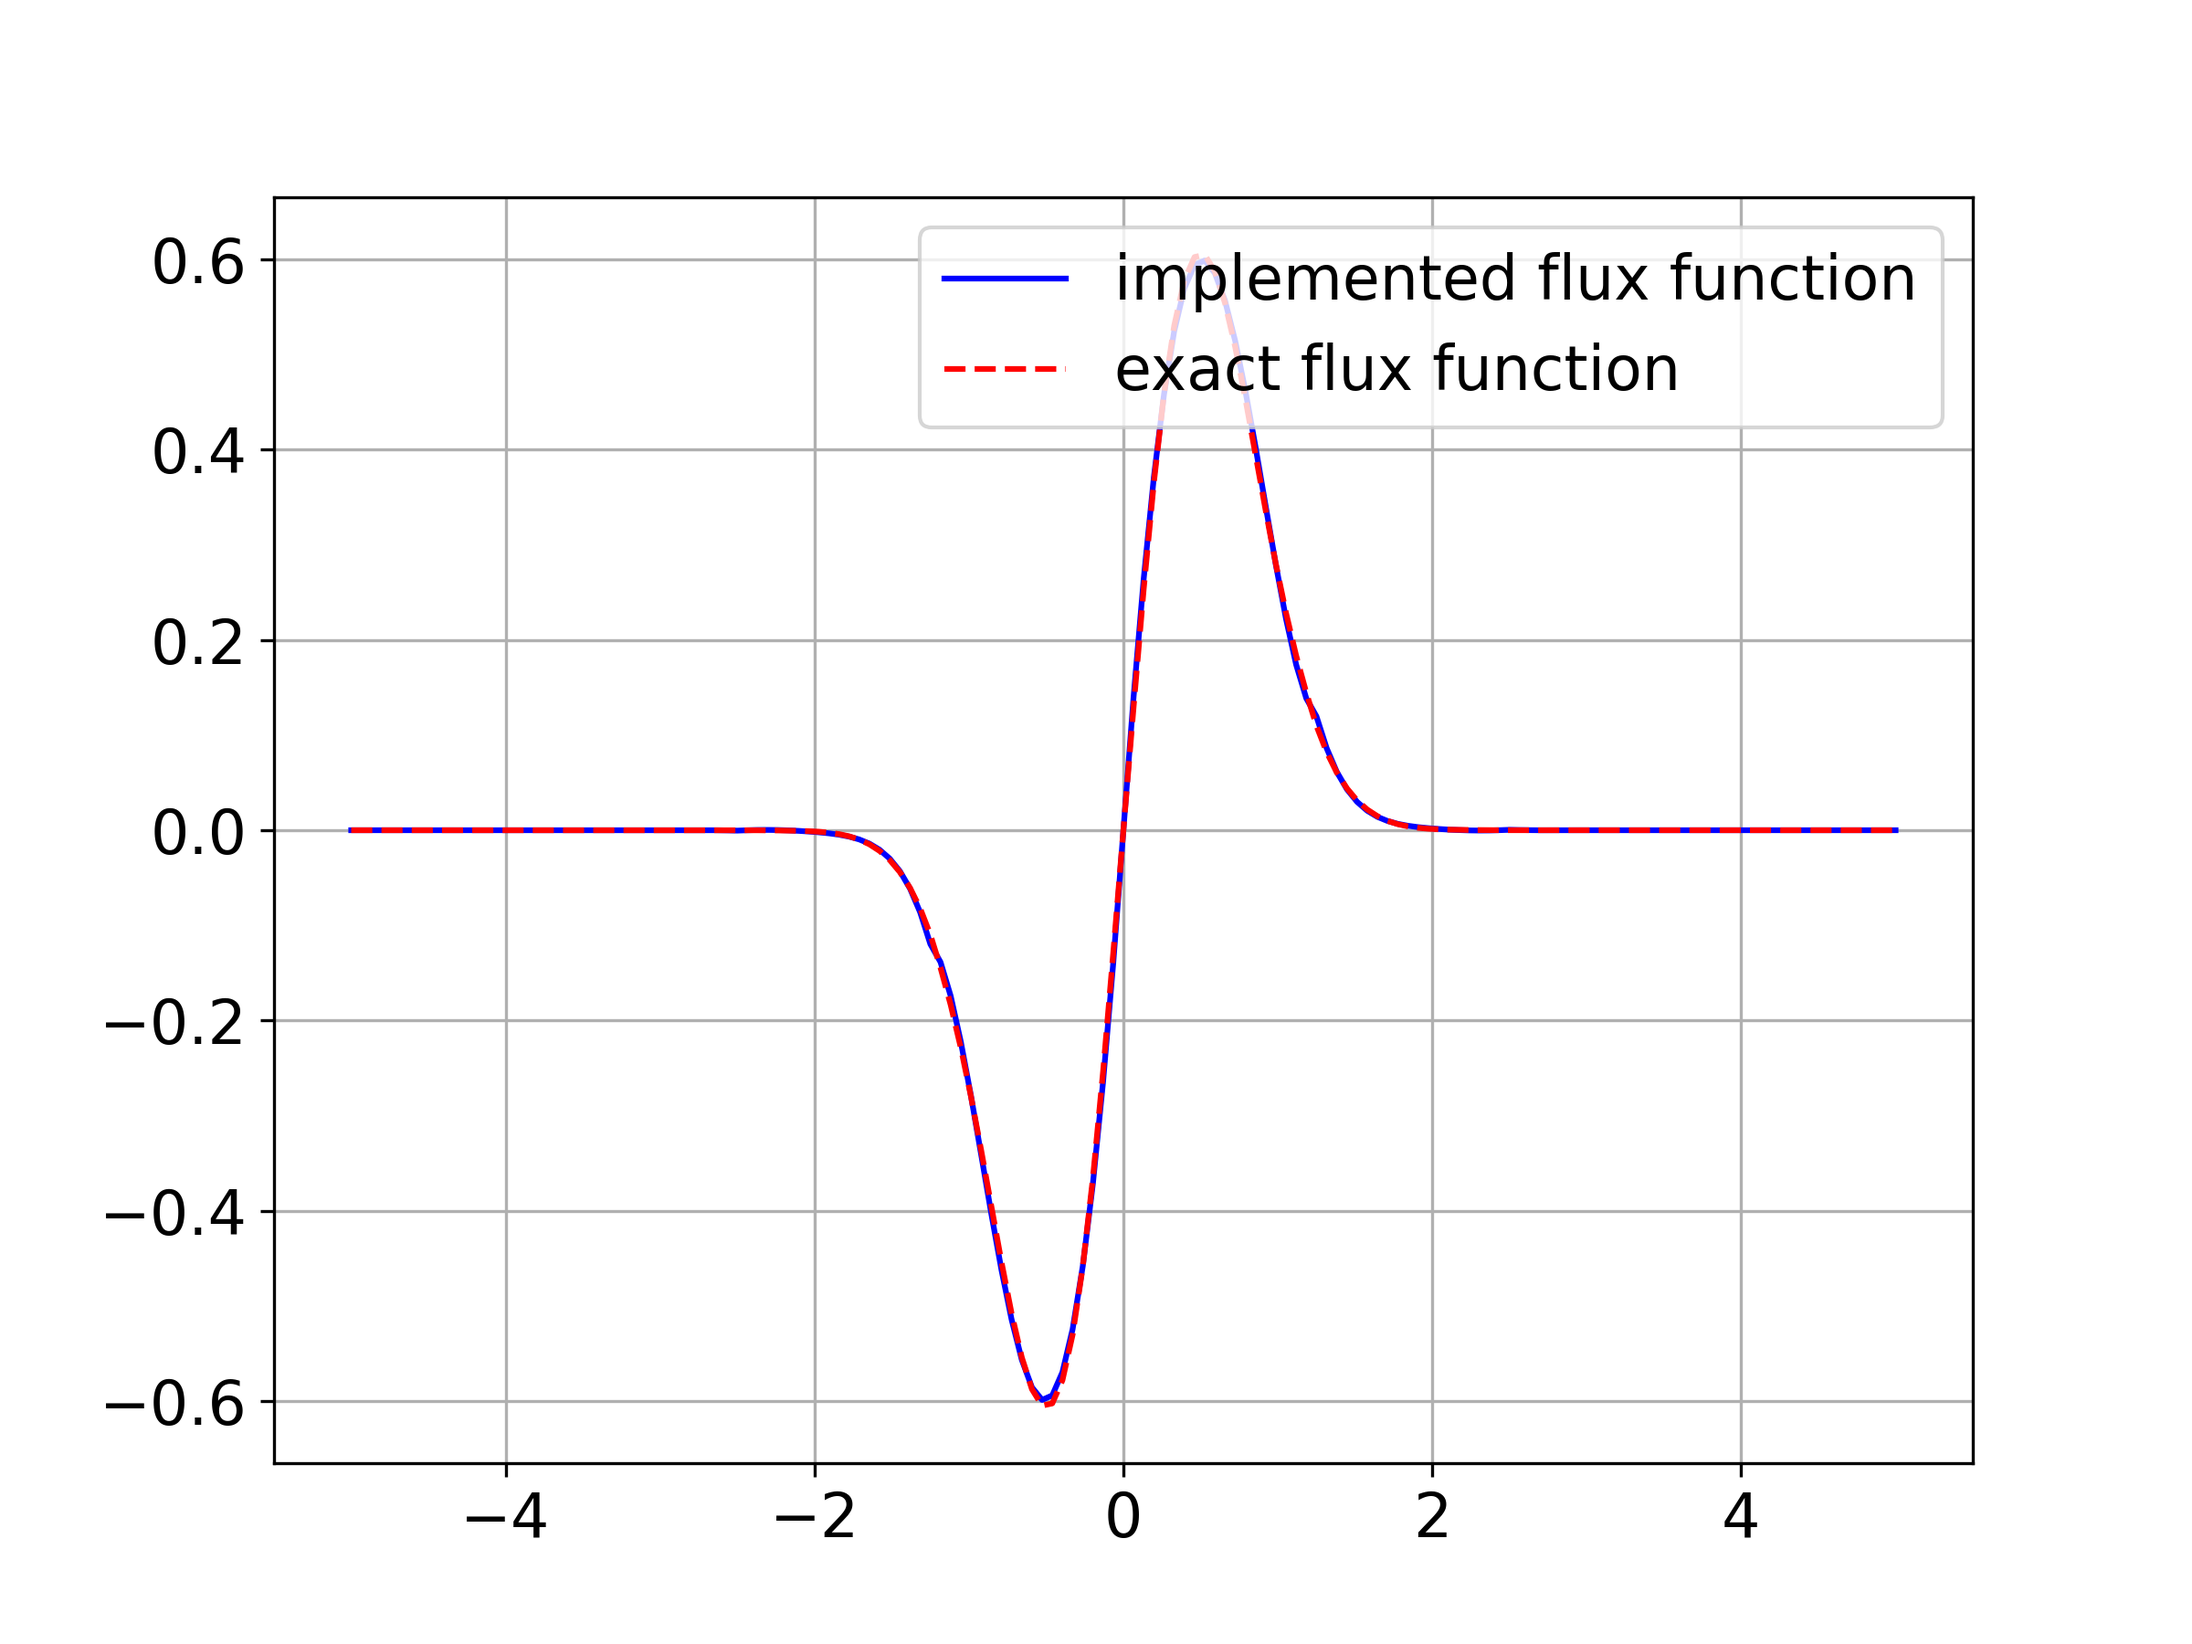
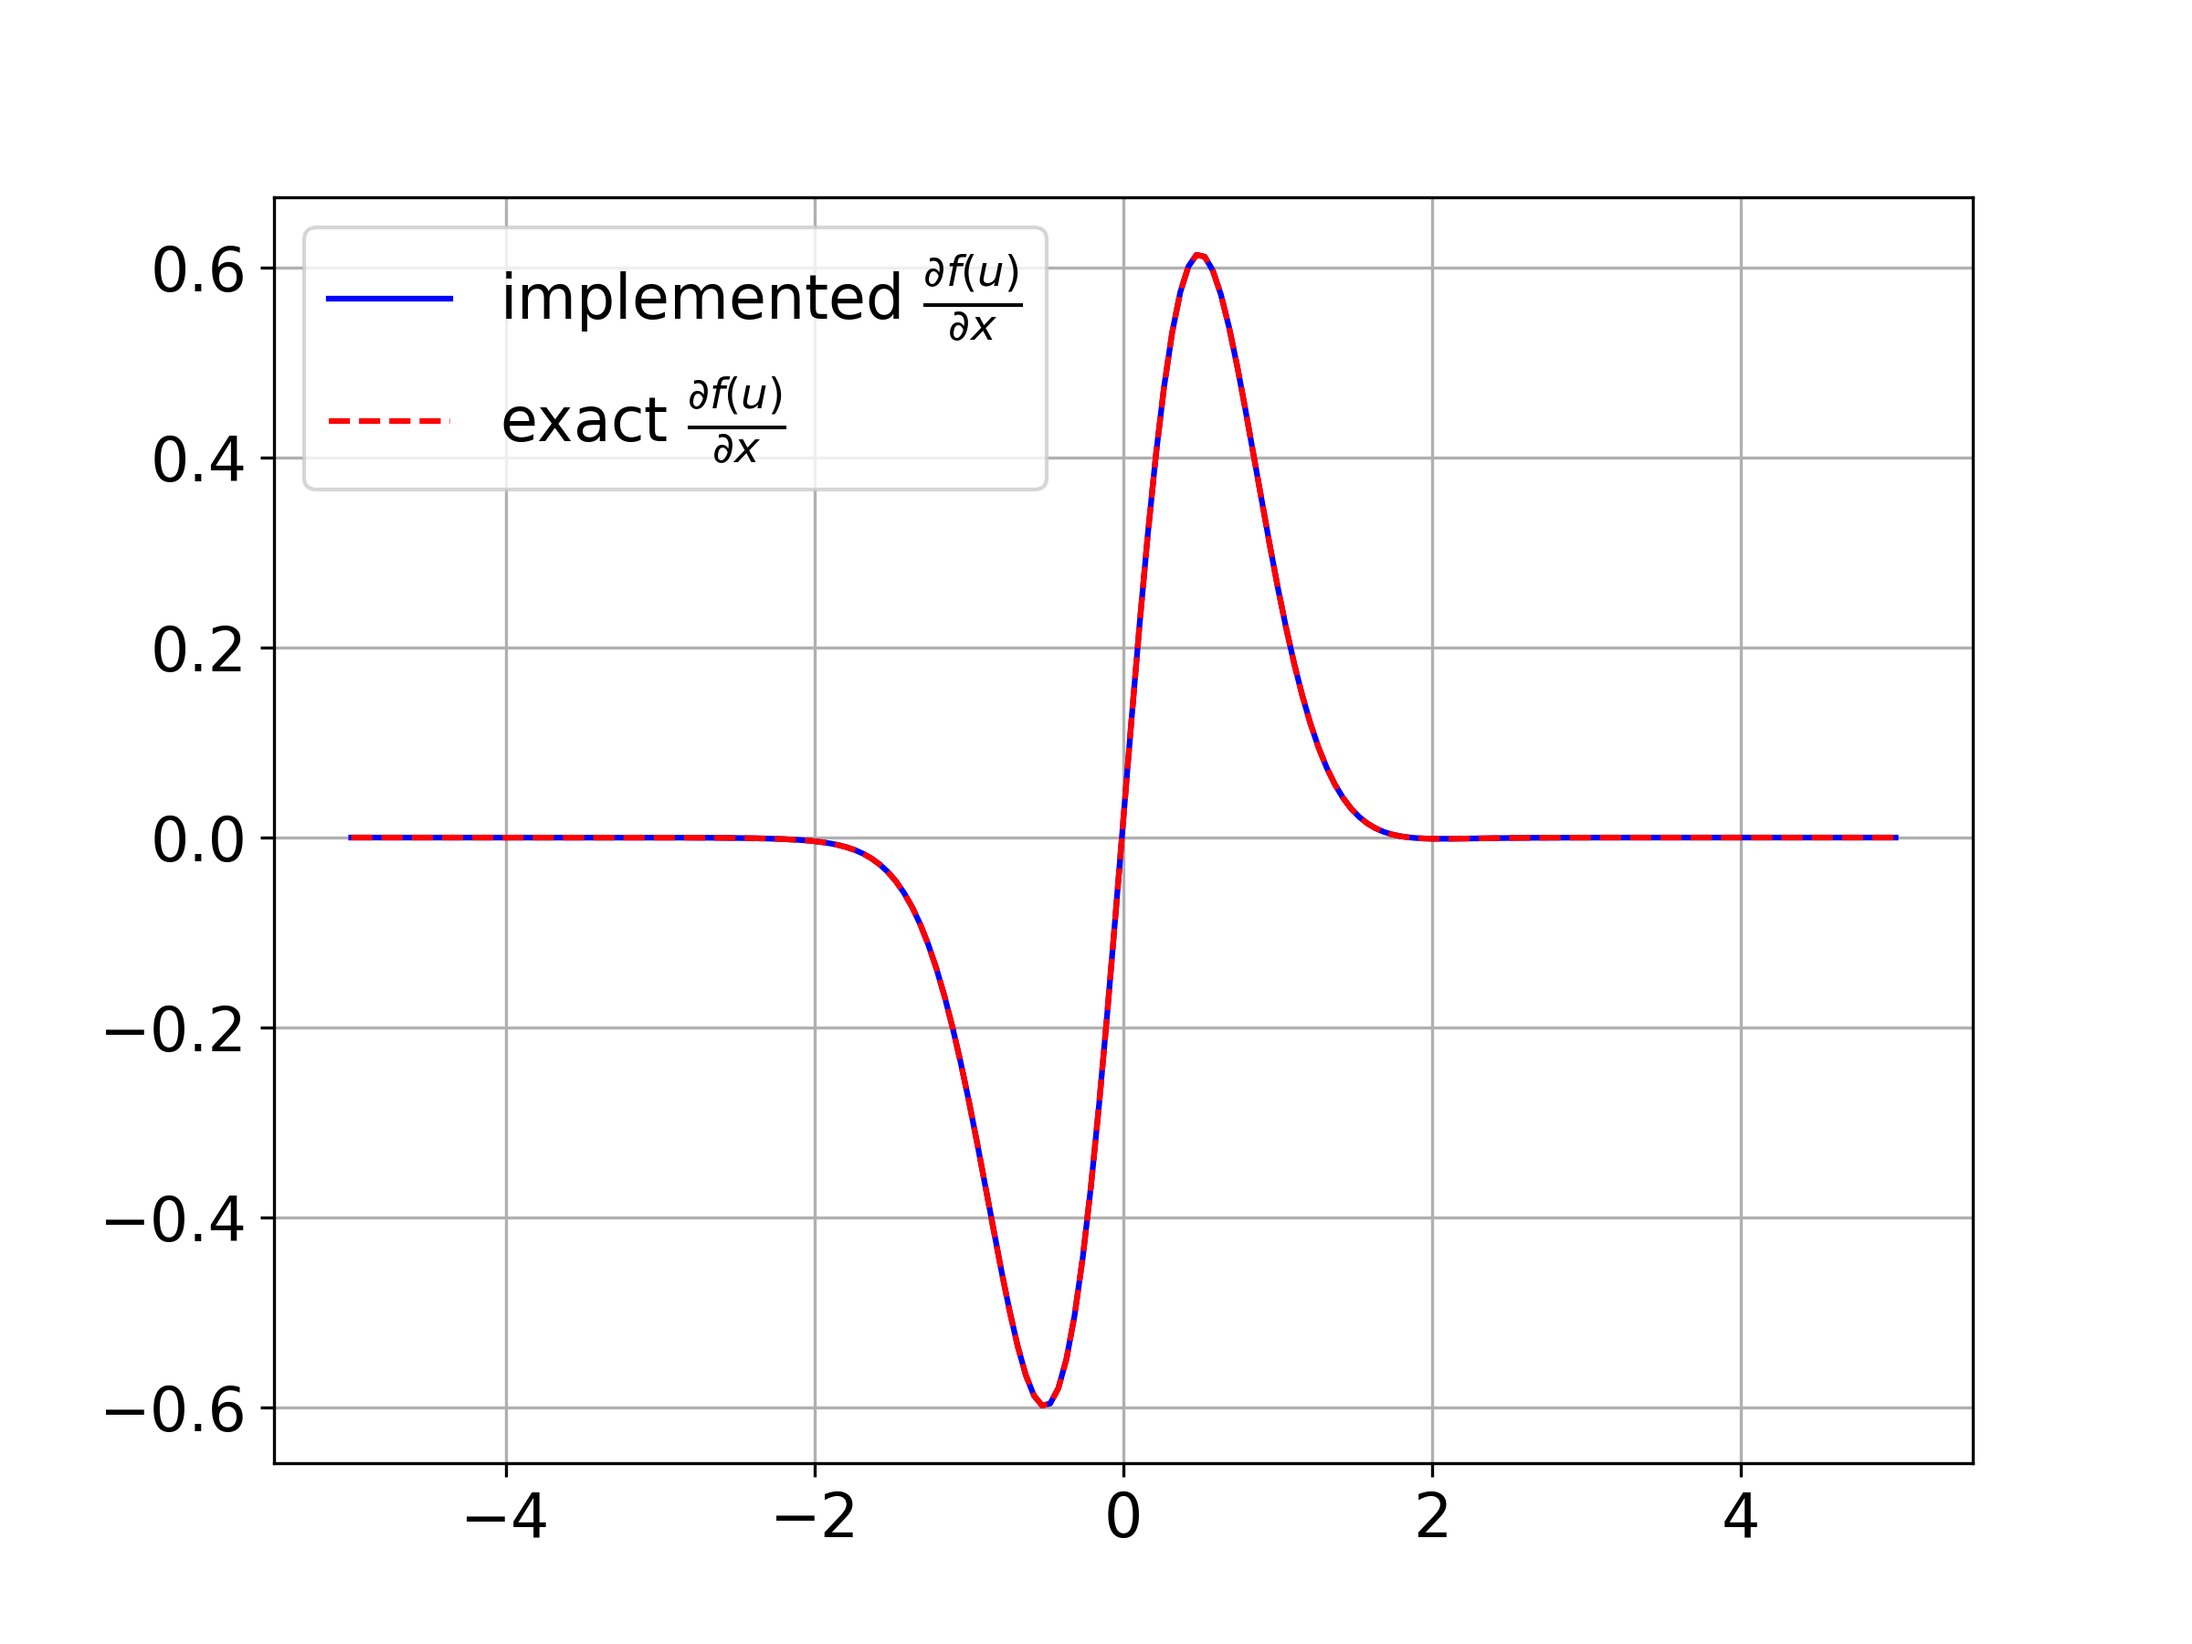
fix a typo

diff --git a/lab1/test_flux.py b/lab1/test_flux.py
@@ -5,8 +5,8 @@ savepath = "figures/"
 ################################################################################
 x_left = -5.0
 x_right = 5.0
-N_element = 8
-P = 5
+N_element = 10
+P = 7
 node_type = "GLL"
 
 domain = np.linspace(x_left, x_right, N_element + 1)
@@ -14,8 +14,8 @@ Xh = FEM_space(node_type, P, domain, 1, "linear")
 
 ################################################################################
 x = Xh.mesh["x"]
-u = np.exp(-(x*x))
-nu = 0.0
+u = -np.exp(-(x*x))
+nu = 1e-1
 dfudx_weak = Xh.dfluxdx_weak_compute(u, nu)
 # for it to be C0 continuity
 dfudx = dfudx_weak/Xh.mesh["B"]
@@ -49,9 +49,9 @@ plt.rcParams.update({
 
 fig, ax = plt.subplots(figsize=(8,6))
 ax.plot(x_fine.flatten(), dfudx_fine.flatten(), color="blue", linestyle = "-", \
-         label="implemented flux function")
+         label=r"implemented $\frac{\partial f(u)}{\partial x}$")
 ax.plot(x_fine.flatten(), dfudx_exact_fine.flatten(), color="red", \
-         linestyle = "--", label="exact flux function")
+         linestyle = "--", label=r"exact $\frac{\partial f(u)}{\partial x}$")
 ax.grid()
 ax.legend()
 plt.savefig(savepath + "flux_function_dx.png", dpi=300)
